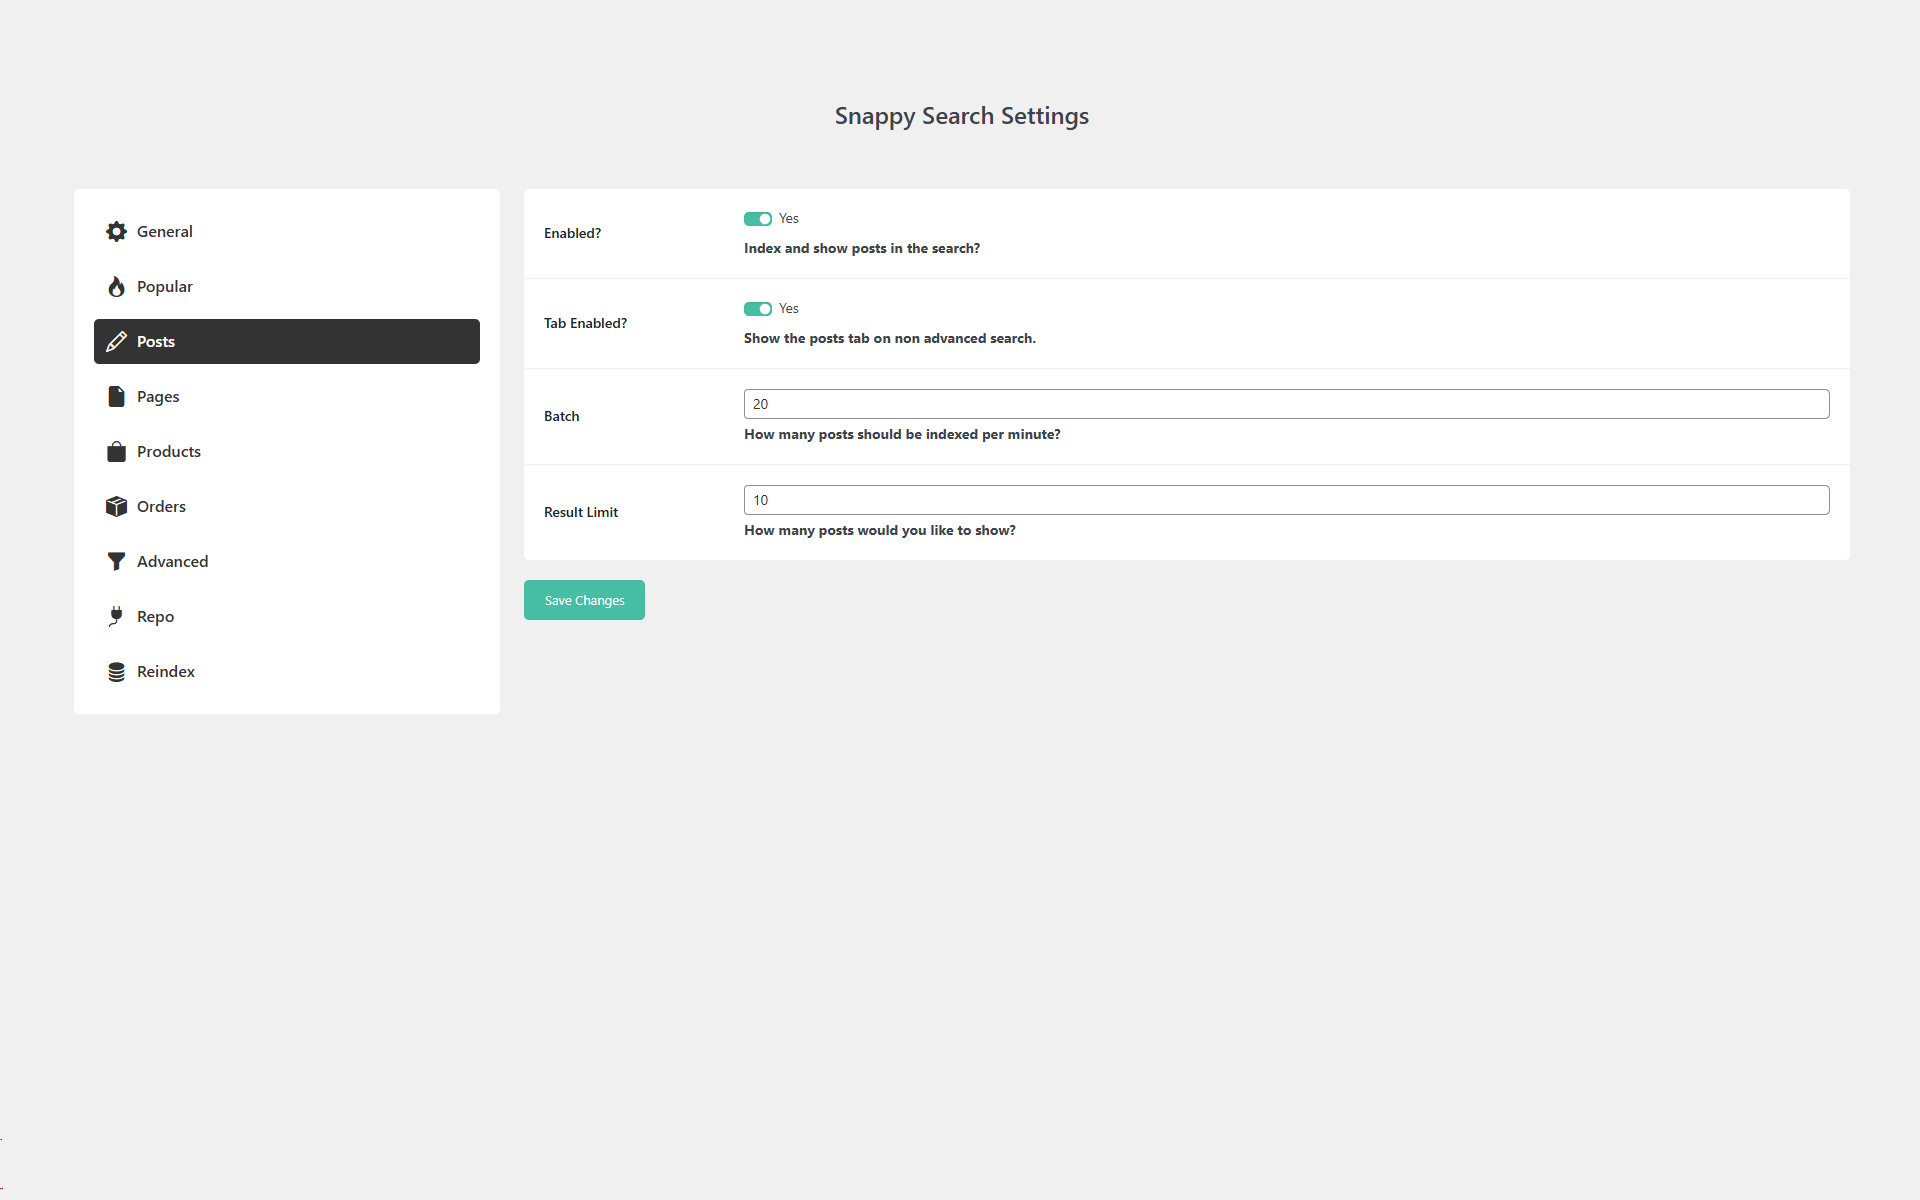
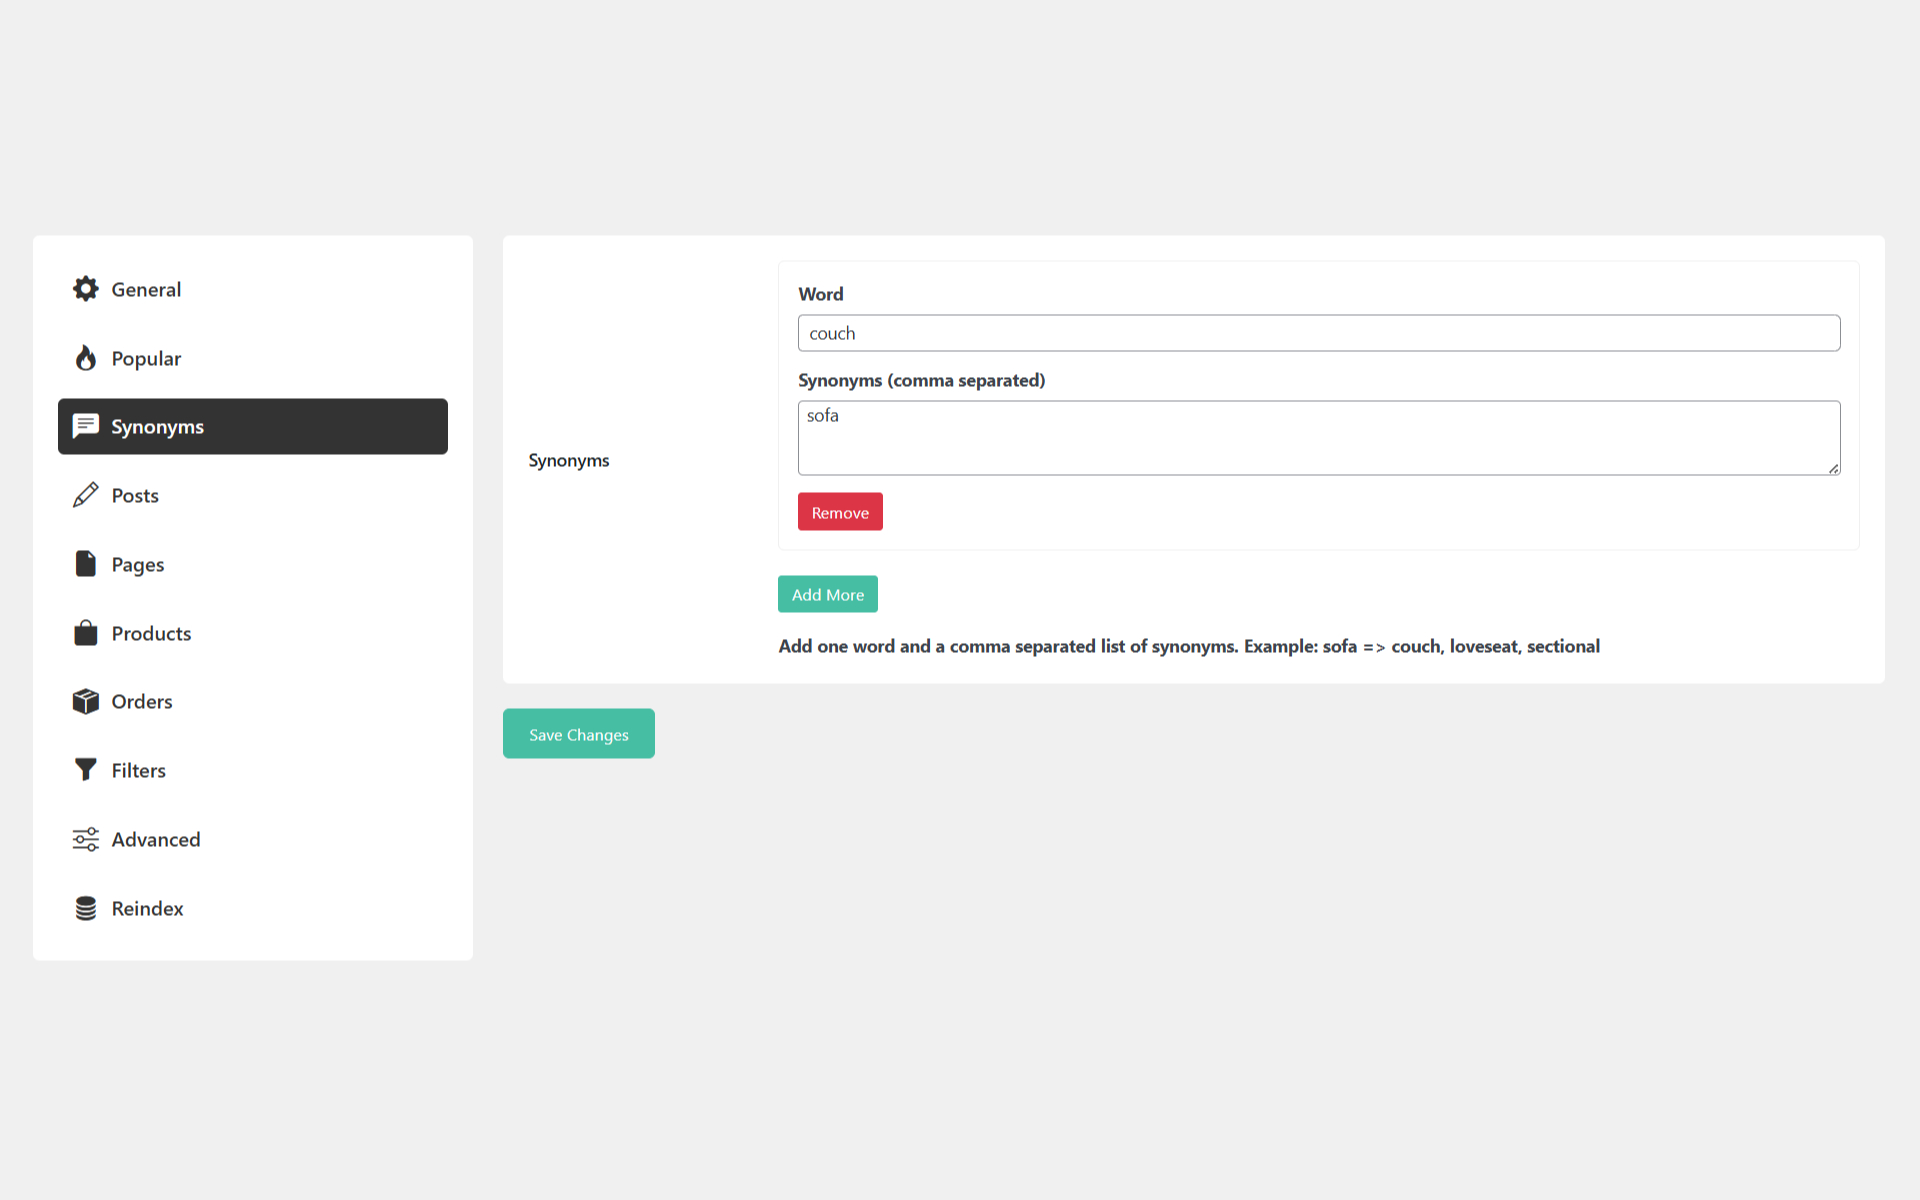
Updated: Screenshots

diff --git a/README.MD b/README.MD
@@ -1,7 +1,7 @@
 ![Snappy Search Banner](.wordpress-org/banner-1880x609.png)
 ## About
 
-Snappy Search is a powerful and lightweight AJAX search plugin that enhances your site's search functionality with lightning fast results. Powered by [TNTSearch](https://github.com/teamtnt/tntsearch), it indexes your WordPress posts, pages, products, and downloads for near instant, accurate, and efficient searching. Say goodbye to slow searches, this plugin ensures a seamless user experience with improved relevancy. Perfect for blogs, news sites, and content heavy websites. For even faster search performance, install our [Snappy Search Enhancements](https://www.polyplugins.com/product/snappy-search-enhancements/) MU plugin to disable unnecessary plugins during search requests.
+Snappy Search is a powerful and lightweight AJAX search plugin that enhances your site's search functionality with lightning fast results. Powered by [TNTSearch](https://github.com/teamtnt/tntsearch), it indexes your WordPress posts, pages, products, and downloads for near instant, accurate, and efficient searching. Say goodbye to slow searches, this plugin ensures a seamless user experience with improved relevancy. Perfect for blogs, news sites, and content heavy websites. For even faster search performance, install our [Snappy Search Standalone API](https://www.polyplugins.com/product/snappy-search-standalone-api/).
 
 ## Currently Supports
 
@@ -10,22 +10,23 @@ Snappy Search is a powerful and lightweight AJAX search plugin that enhances you
 * Searching WordPress posts
 * Searching WordPress pages
 * Searching through WooCommerce orders
-* Advanced repo search for finding plugins and themes. [Demo](https://www.polyplugins.com/repo-search/)
 
 ## Features
 
-* Search through all posts fast without requiring multiple page loads
+* Search through various post types fast without requiring multiple page loads
+* Popular search terms can be displayed below the search
+* Define synonyms when there are multiple search terms that could be used
+* Option to filter WooCommerce products by rating, price, or custom fields.
 * Set how many characters to trigger the AJAX search
 * Set a typing delay before an AJAX request is made
 * Tab selection between various indexes if more than one is enabled
 * Adds a dropdown by defined selector to search form to show results
-* Can build indexes for products, downloads, posts, and pages
+* Can build indexes for products, downloads, posts, pages, orders
 * Background sync for indexes
 * Index updater that handles when data is added, updated, removed, set to draft, or visibility hidden.
 * Ability to adjust the batch size for the initial index so smaller servers don't get overloaded
 * Limit the number of results displayed
-* [NEW] Advanced search to replace the default WordPress search
-* Popular search terms can be displayed below the search
+* Advanced search to replace the default WordPress search
 * Add your own custom shortcode template by copying snappy-search-form.php to your theme folder
 * Reindexer button
 * Shortcode [snappy_search_polyplugins placeholder="Search..."] to inject a Snappy Search form anywhere
@@ -61,12 +62,13 @@ This plugin collects and stores certain data on your server to ensure proper fun
 ![Demo](.wordpress-org/screenshot-1.jpg)
 ![General Settings](.wordpress-org/screenshot-2.jpg)
 ![Popular Settings](.wordpress-org/screenshot-3.jpg)
-![Posts Settings](.wordpress-org/screenshot-4.jpg)
-![Pages Settings](.wordpress-org/screenshot-5.jpg)
-![Products Settings](.wordpress-org/screenshot-6.jpg)
-![Order Settings](.wordpress-org/screenshot-7.jpg)
-![Advanced Search Settings](.wordpress-org/screenshot-8.jpg)
-![Repo Settings](.wordpress-org/screenshot-9.jpg)
+![Synonyms Settings](.wordpress-org/screenshot-4.jpg)
+![Posts Settings](.wordpress-org/screenshot-5.jpg)
+![Pages Settings](.wordpress-org/screenshot-6.jpg)
+![Products Settings](.wordpress-org/screenshot-7.jpg)
+![Orders Settings](.wordpress-org/screenshot-8.jpg)
+![Filters Settings](.wordpress-org/screenshot-9.jpg)
+![Advanced Search Settings](.wordpress-org/screenshot-10.jpg)
 
 ## Installation
 
